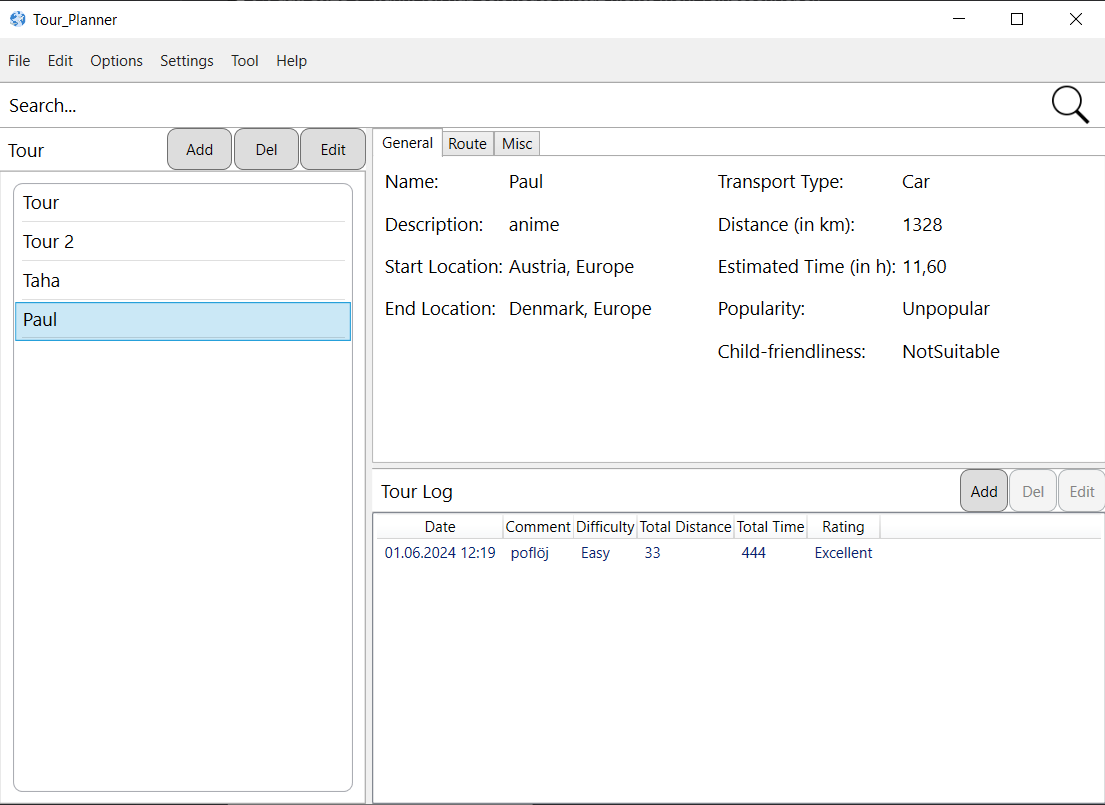
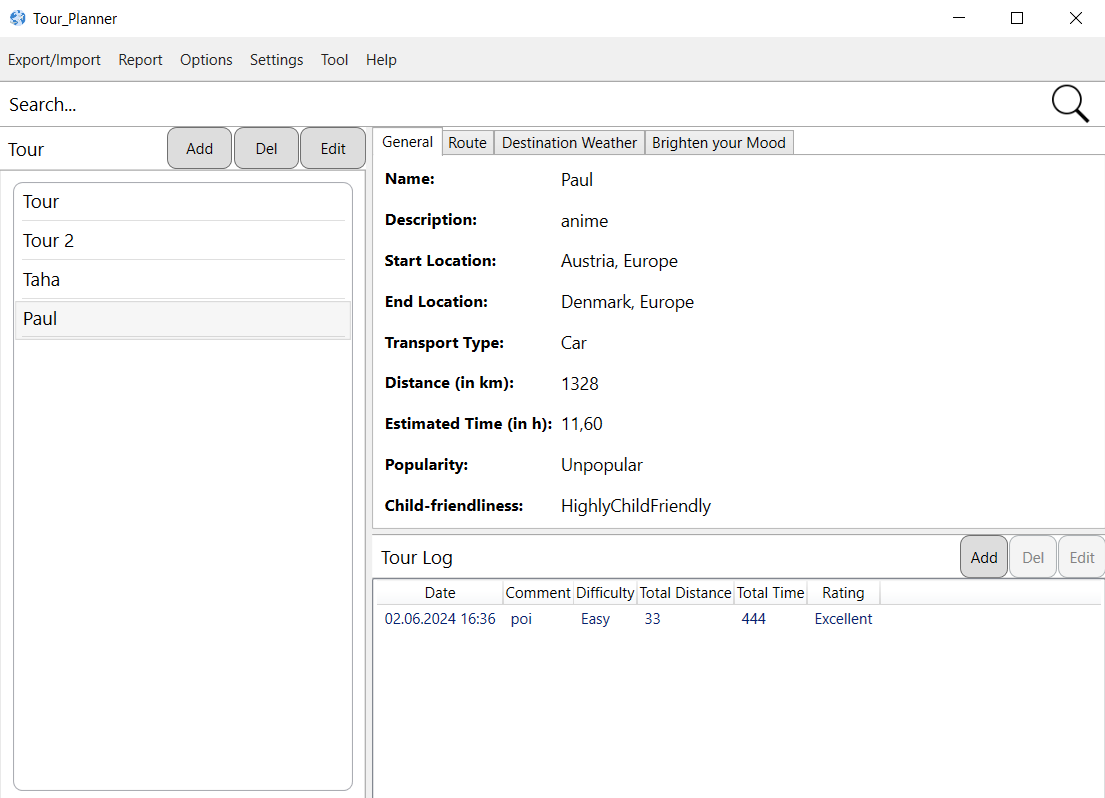
finished protocol

diff --git a/Docs/protocol.md b/Docs/protocol.md
@@ -111,10 +111,27 @@ to
 have the most important functions tested.
 
 ## Mandatory Unique Feature
+### Waether API
 
+After seeing one our classmates present their project to us (Alfred Hromas), we decided to implement the same feature. We
+Alfred whether we could do the same, and he said yes. That was our sign to start integrating the openweathermap API into
+our project. To do that we each had to get an API-Key, which fortunately, was free. After setting everything up, we had 
+to decide how we wanted to use the API. The data certainly doesn't belong to the database, so we immediately discarded
+the idea, because it is only a daily forecast. Furthermore, it only made sense to retrieve the weather of the destination,
+rather than the start, because the start is most likely the place a user is living. And that is why we went ahead and
+made another TabItem and called it "Destination Weather". The user has to select a Tour for it to work. Once the Tour is 
+selected, the user can click on the Button and 4 weather forecasts will be displayed. We made it with color, so that the
+user feels invited to use it. Once a different Tour is selected, the weather disappears.
 
 ## Bonus Feature
+### Joke API
 
+After looking for different APIs for our mandatory unique feature, we came across one API that does not need a key and is
+free as well. we immediately wanted that in our project, because we thought it was funny. The API is about jokes. There
+were many, but we limited it with only programming jokes. For this we added another TabItem. Once the button is clicked
+a random programming joke is retrieved and displayed a bit like a Json with setup and punchline. As this has nothing to
+with the Database and the openroute it works fine, even if both are down. This is to entertain the user, if there is
+something wrong and the user has to wait.
 
 ## Tracked time
 
